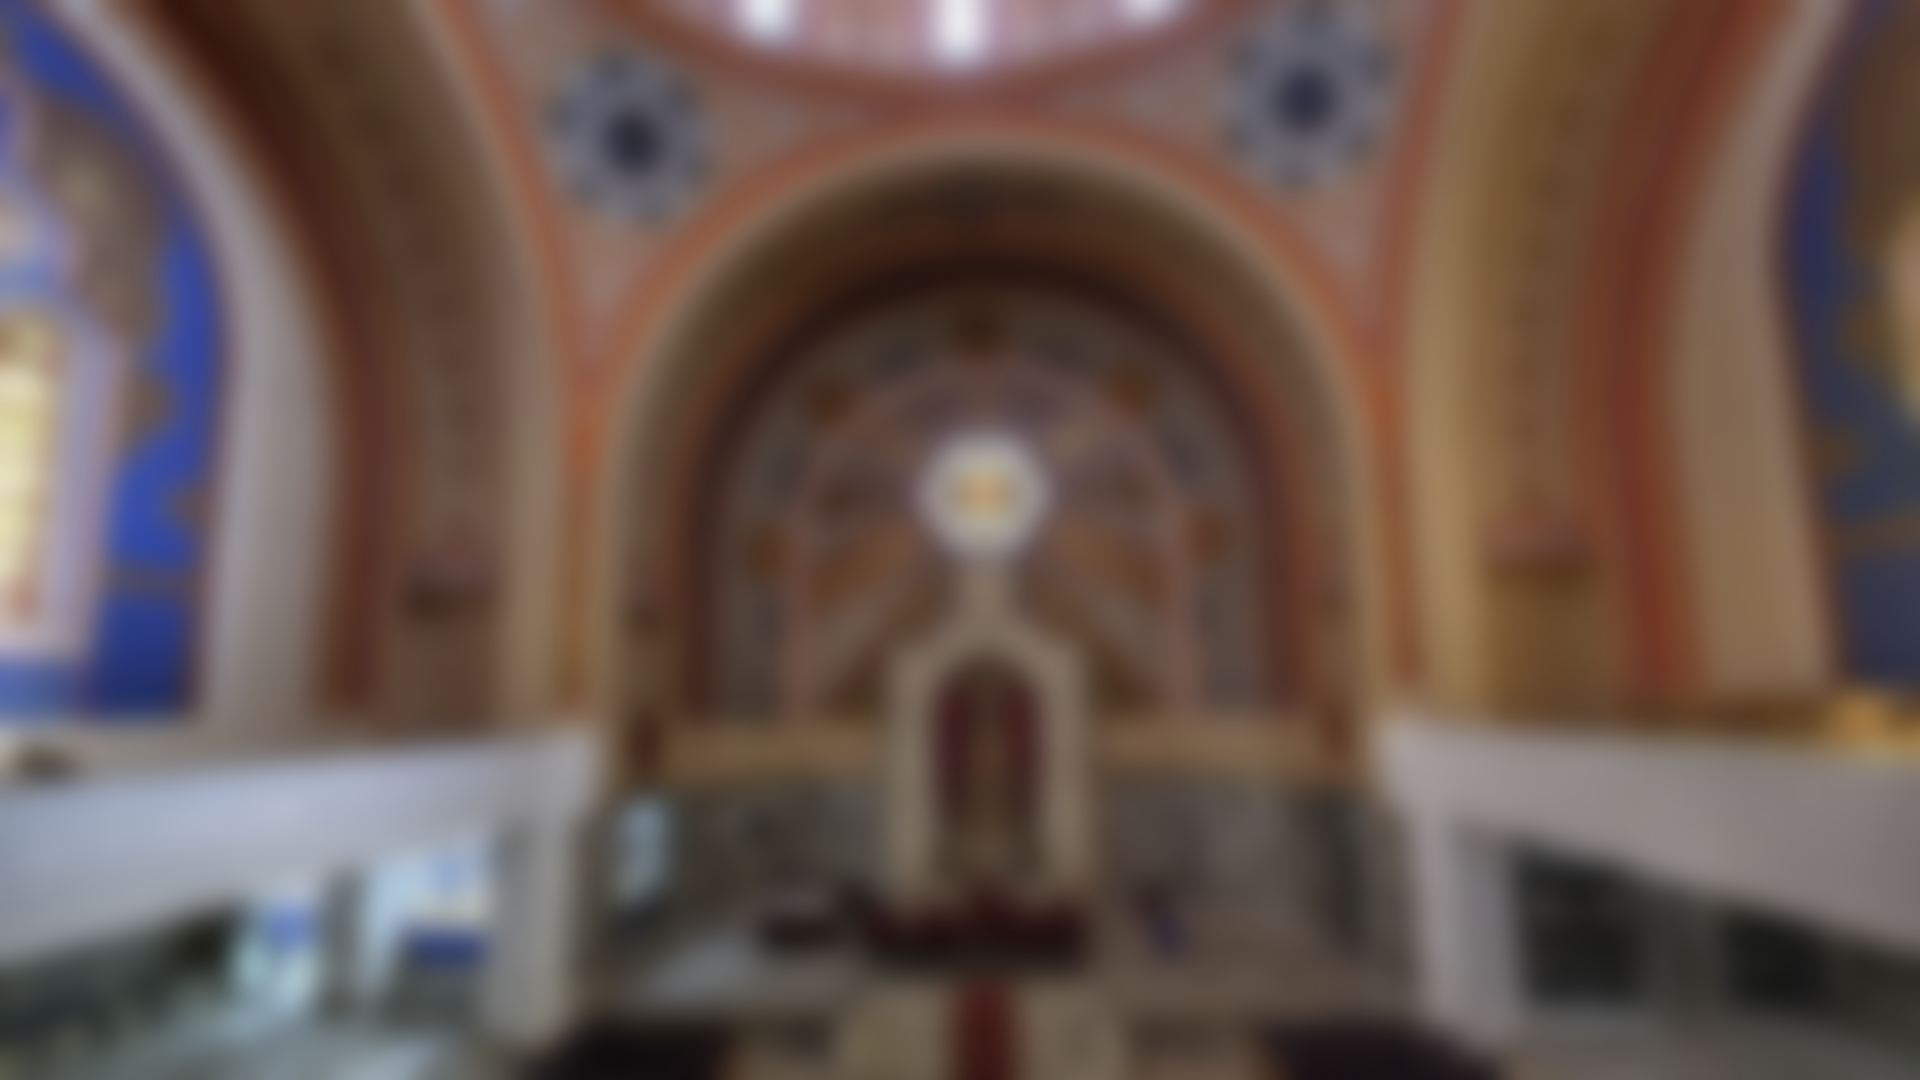
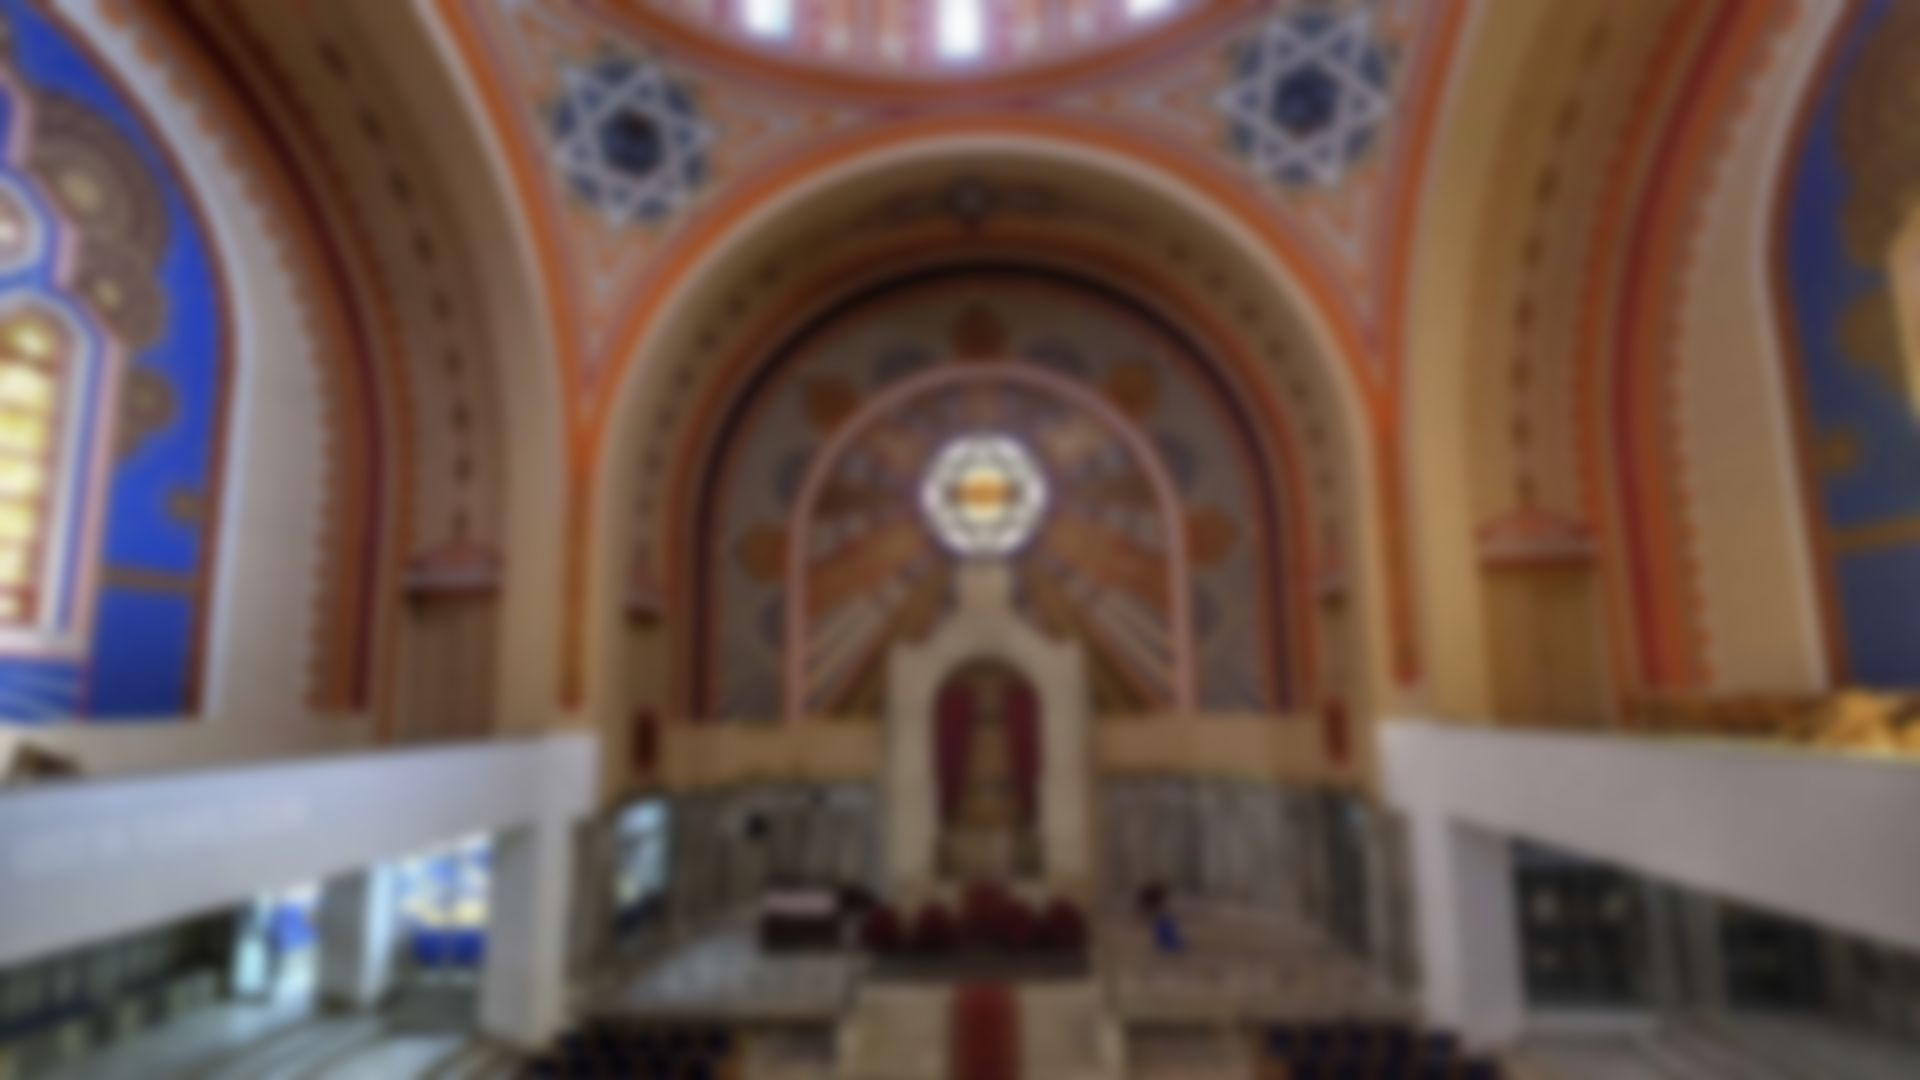
Écran synagogue : fond plus clair et moins flou, la synagogue reste visible
Claude-Session: https://claude.ai/code/session_01JKj3SxnZ9ZEgpxLsuiNgHk

diff --git a/synagogue-display-theme/assets/synagogue-display.css b/synagogue-display-theme/assets/synagogue-display.css
@@ -23,12 +23,12 @@ a { color: inherit; }
 .sd-stage::before { content: ""; position: absolute; inset: 0; background: url("synagogue-bg.jpg") center / cover no-repeat; }
 .sd-stage::after { content: ""; position: absolute; inset: 0;
   background:
-    radial-gradient(1100px 650px at 50% 45%, rgba(4,10,28,.28), rgba(4,10,28,.5) 75%),
-    linear-gradient(180deg, rgba(4,10,28,.6) 0%, rgba(4,10,28,.22) 28%, rgba(4,10,28,.3) 75%, rgba(2,5,15,.75) 100%); }
+    radial-gradient(1100px 650px at 50% 45%, rgba(4,10,28,.08), rgba(4,10,28,.28) 75%),
+    linear-gradient(180deg, rgba(4,10,28,.5) 0%, rgba(4,10,28,.1) 28%, rgba(4,10,28,.12) 75%, rgba(2,5,15,.6) 100%); }
 .sd-stage > * { z-index: 1; }
 .sd-header, .sd-hair, .sd-foot { position: absolute; }
-.glass { background: linear-gradient(180deg, rgba(10,22,51,.55), rgba(5,11,31,.66));
-  border: 1px solid rgba(217,191,140,.28); border-radius: 22px; backdrop-filter: blur(14px); -webkit-backdrop-filter: blur(14px);
+.glass { background: linear-gradient(180deg, rgba(10,22,51,.5), rgba(5,11,31,.6));
+  border: 1px solid rgba(217,191,140,.28); border-radius: 22px; backdrop-filter: blur(10px); -webkit-backdrop-filter: blur(10px);
   box-shadow: inset 0 1px 0 rgba(255,255,255,.08), 0 18px 50px rgba(0,0,0,.35); }
 .gold-text { background: linear-gradient(180deg, var(--gold-hi), var(--gold)); -webkit-background-clip: text; background-clip: text; color: transparent; }
 .hair { height: 1px; background: linear-gradient(90deg, transparent, rgba(217,191,140,.55), transparent); }
